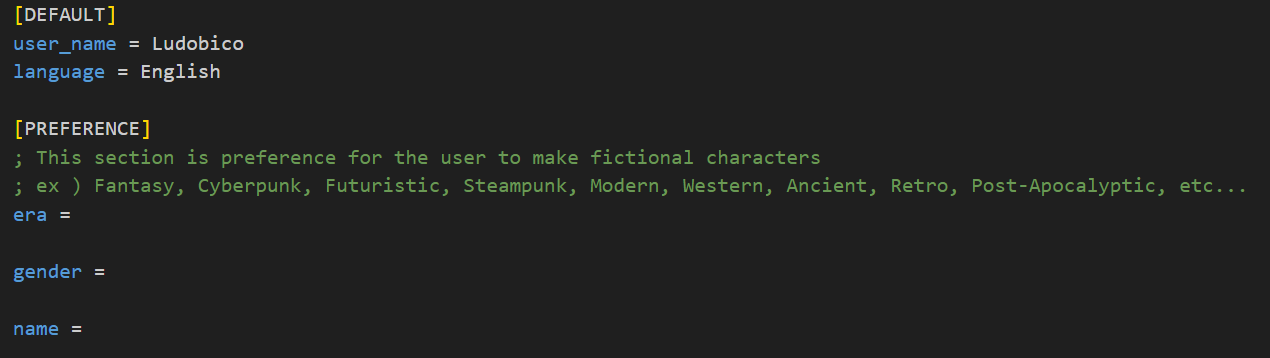
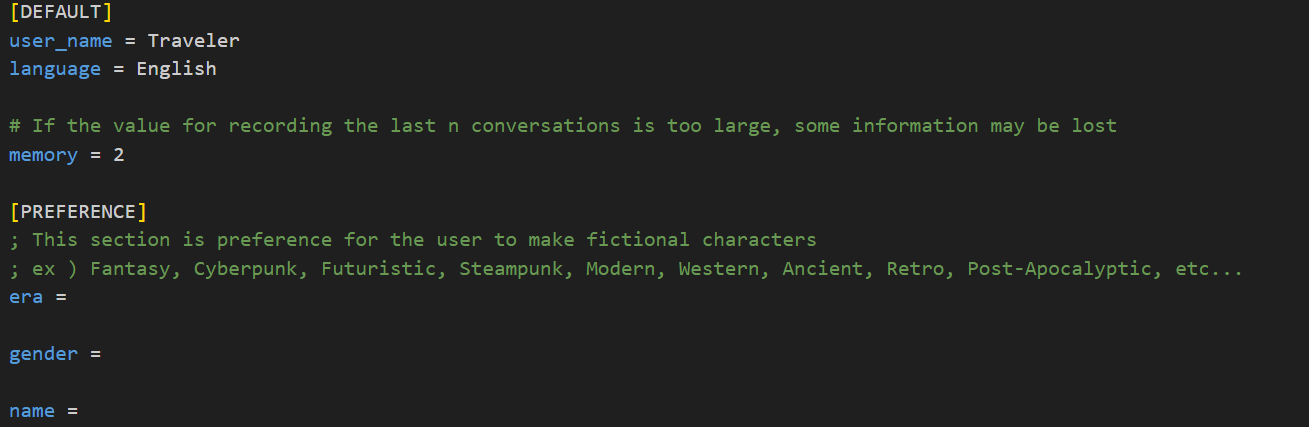
feat : readme update

diff --git a/README.ko.md b/README.ko.md
@@ -103,7 +103,7 @@ cd ../../
 uvicorn main:app --reload
 ```
 
-## Create Character!
+## Create Character
 
 ![Alt text](./frontend/src/components/Static/create_character.gif)
 
@@ -130,3 +130,5 @@ uvicorn main:app --reload
 ![Alt text](./frontend/src/components/Static/user_config.png)
 
 `language` 옵션으로 원하는 언어로 대화할 수 있지만, 캐릭터를 생성할때는 **영어로 고정**됩니다. 생성된 캐릭터의 외형을 기반으로 이미지를 생성해야하는데 이 기능은 영어일때만 동작합니다.
+
+`memory` 옵션은 대화를 할때 캐릭터가 기억할 수 있는 대화의 수입니다. memory가 높을수록 이전의 대화를 기억할 수 있지만, 토큰의 길이가 초과될 경우 일부 정보가 소실될 수 있으니 적절한 값으로 설정해야합니다.
